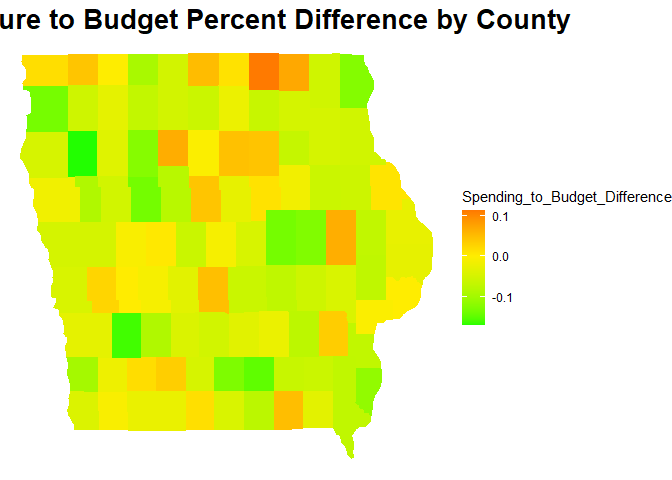
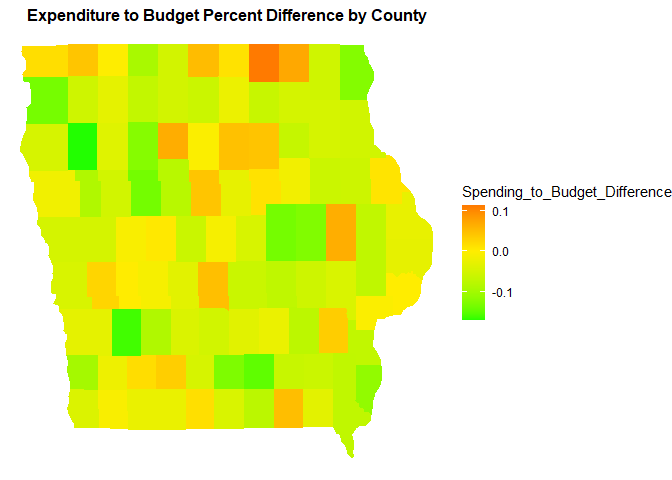
Edits 1

diff --git a/README.md b/README.md
@@ -13,10 +13,20 @@ spend its wealth.
 
 The questions explored in this report are:
 
-1.  
-2.  
-3.  
-4.  
+1.  What are the general differences between counties in how much they
+    make? How is this affected by a county’s population? Does population
+    affect how a county receives most of its funds?
+
+2.  What are the general differences between counties in how much they
+    spend? How is this affected by a county’s population? How has this
+    changed over time? Does population and income affect what a county
+    spends its money on?
+
+3.  For each spending type, what is the difference between budgeted and
+    actual expenditures?
+
+4.  What counties are the best at following their budget and revenue?
+    How has this changed over time?
 
 ## Data
 
@@ -1169,8 +1179,8 @@ that they are able to use to pay off debt.
 
 ### Most Fiscally Responsible Counties
 
-What counties are the best at following their budget? How has this
-changed over time?
+What counties are the best at following their budget and revenue? How
+has this changed over time?
 
 ``` r
 complete_difference <- data |>
@@ -1194,7 +1204,7 @@ ggplot(county_difference_data, aes(x = long, y = lat, fill = Spending_to_Budget_
   labs(title = "Expenditure to Budget Percent Difference by County") +
   theme(
     plot.title = element_text(
-      size = 20, 
+      size = 12, 
       face = "bold",
       hjust = 0.5)
     )
@@ -1223,7 +1233,7 @@ ggplot(county_difference_data2, aes(x = long, y = lat, fill = Spending_to_Budget
   labs(title = "Absolute Expenditure to Budget Percent Difference by County") +
   theme(
     plot.title = element_text(
-      size = 20, 
+      size = 12, 
       face = "bold",
       hjust = 0.5)
     )
@@ -1245,7 +1255,7 @@ ggplot(county_difference_data, aes(x = long, y = lat,
   labs(title = "Expenditure to Revenue Percent Difference by County") +
   theme(
     plot.title = element_text(
-      size = 20, 
+      size = 12, 
       face = "bold",
       hjust = 0.5)
     )
@@ -1329,7 +1339,7 @@ ggplot(complete_difference, aes(x = long, y = lat,
   labs(title = "Expenditure to Revenue Percent Difference Each Year") +
   theme(
     plot.title = element_text(
-      size = 20, 
+      size = 12, 
       face = "bold",
       hjust = 0.5)
     ) +
